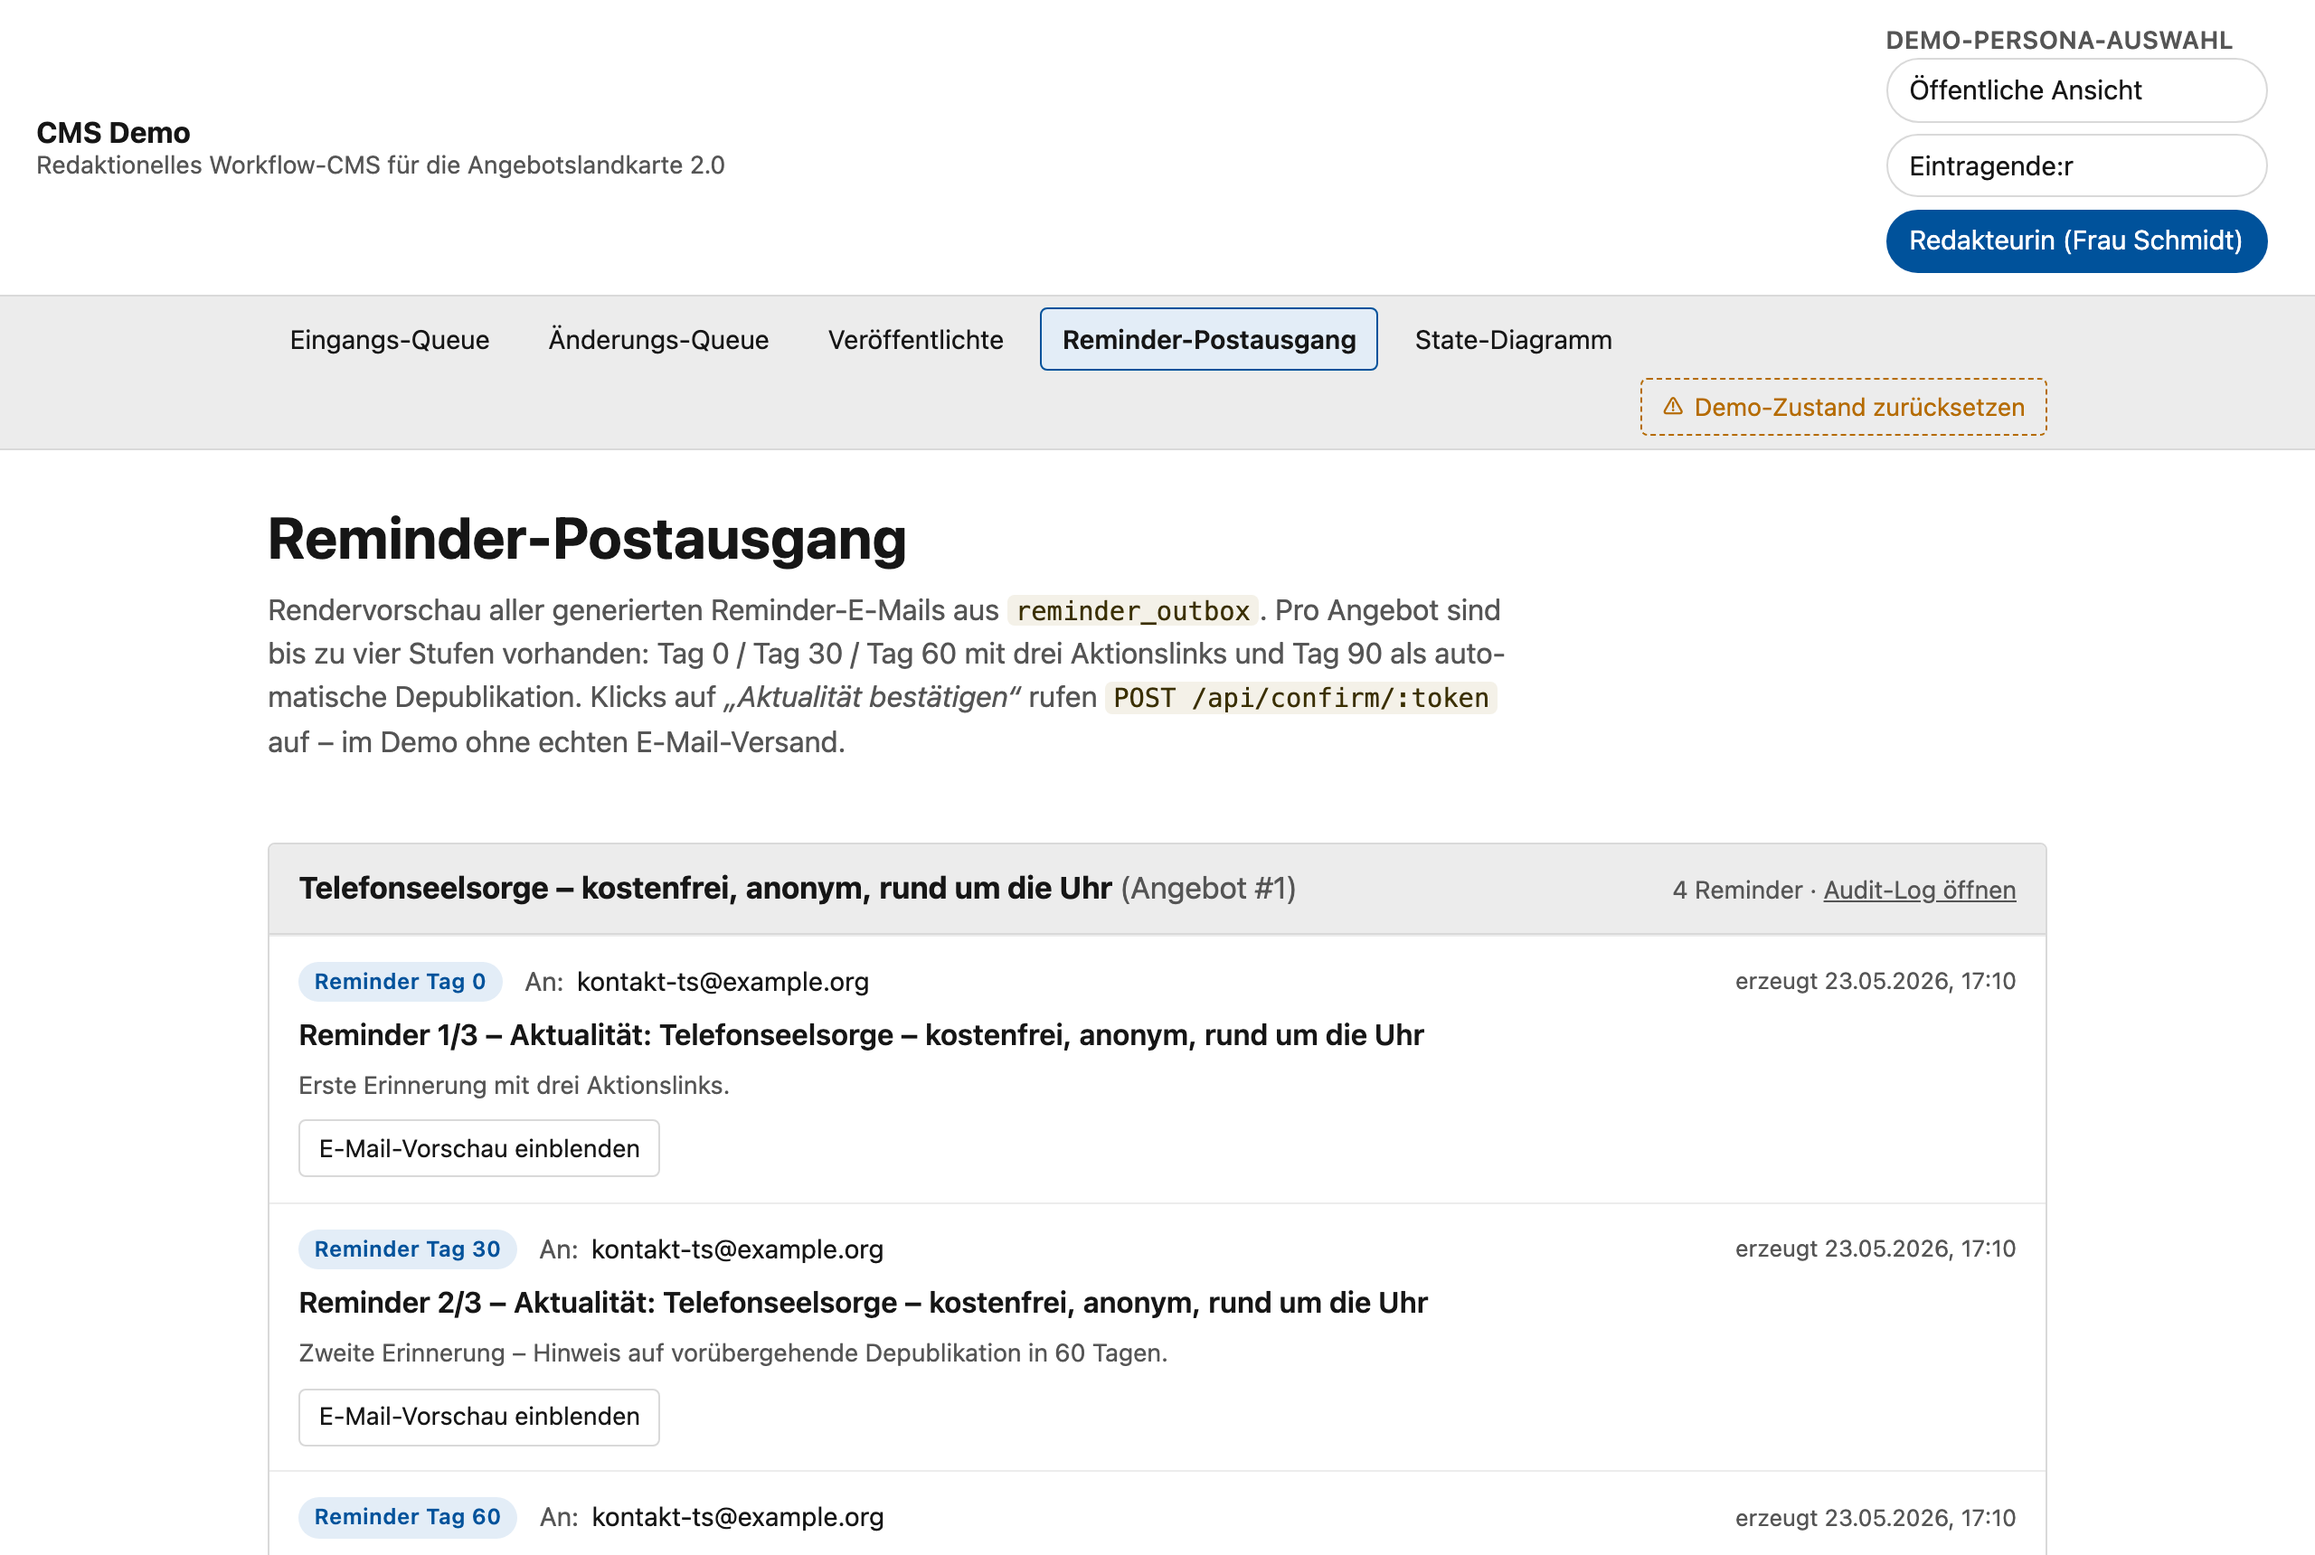
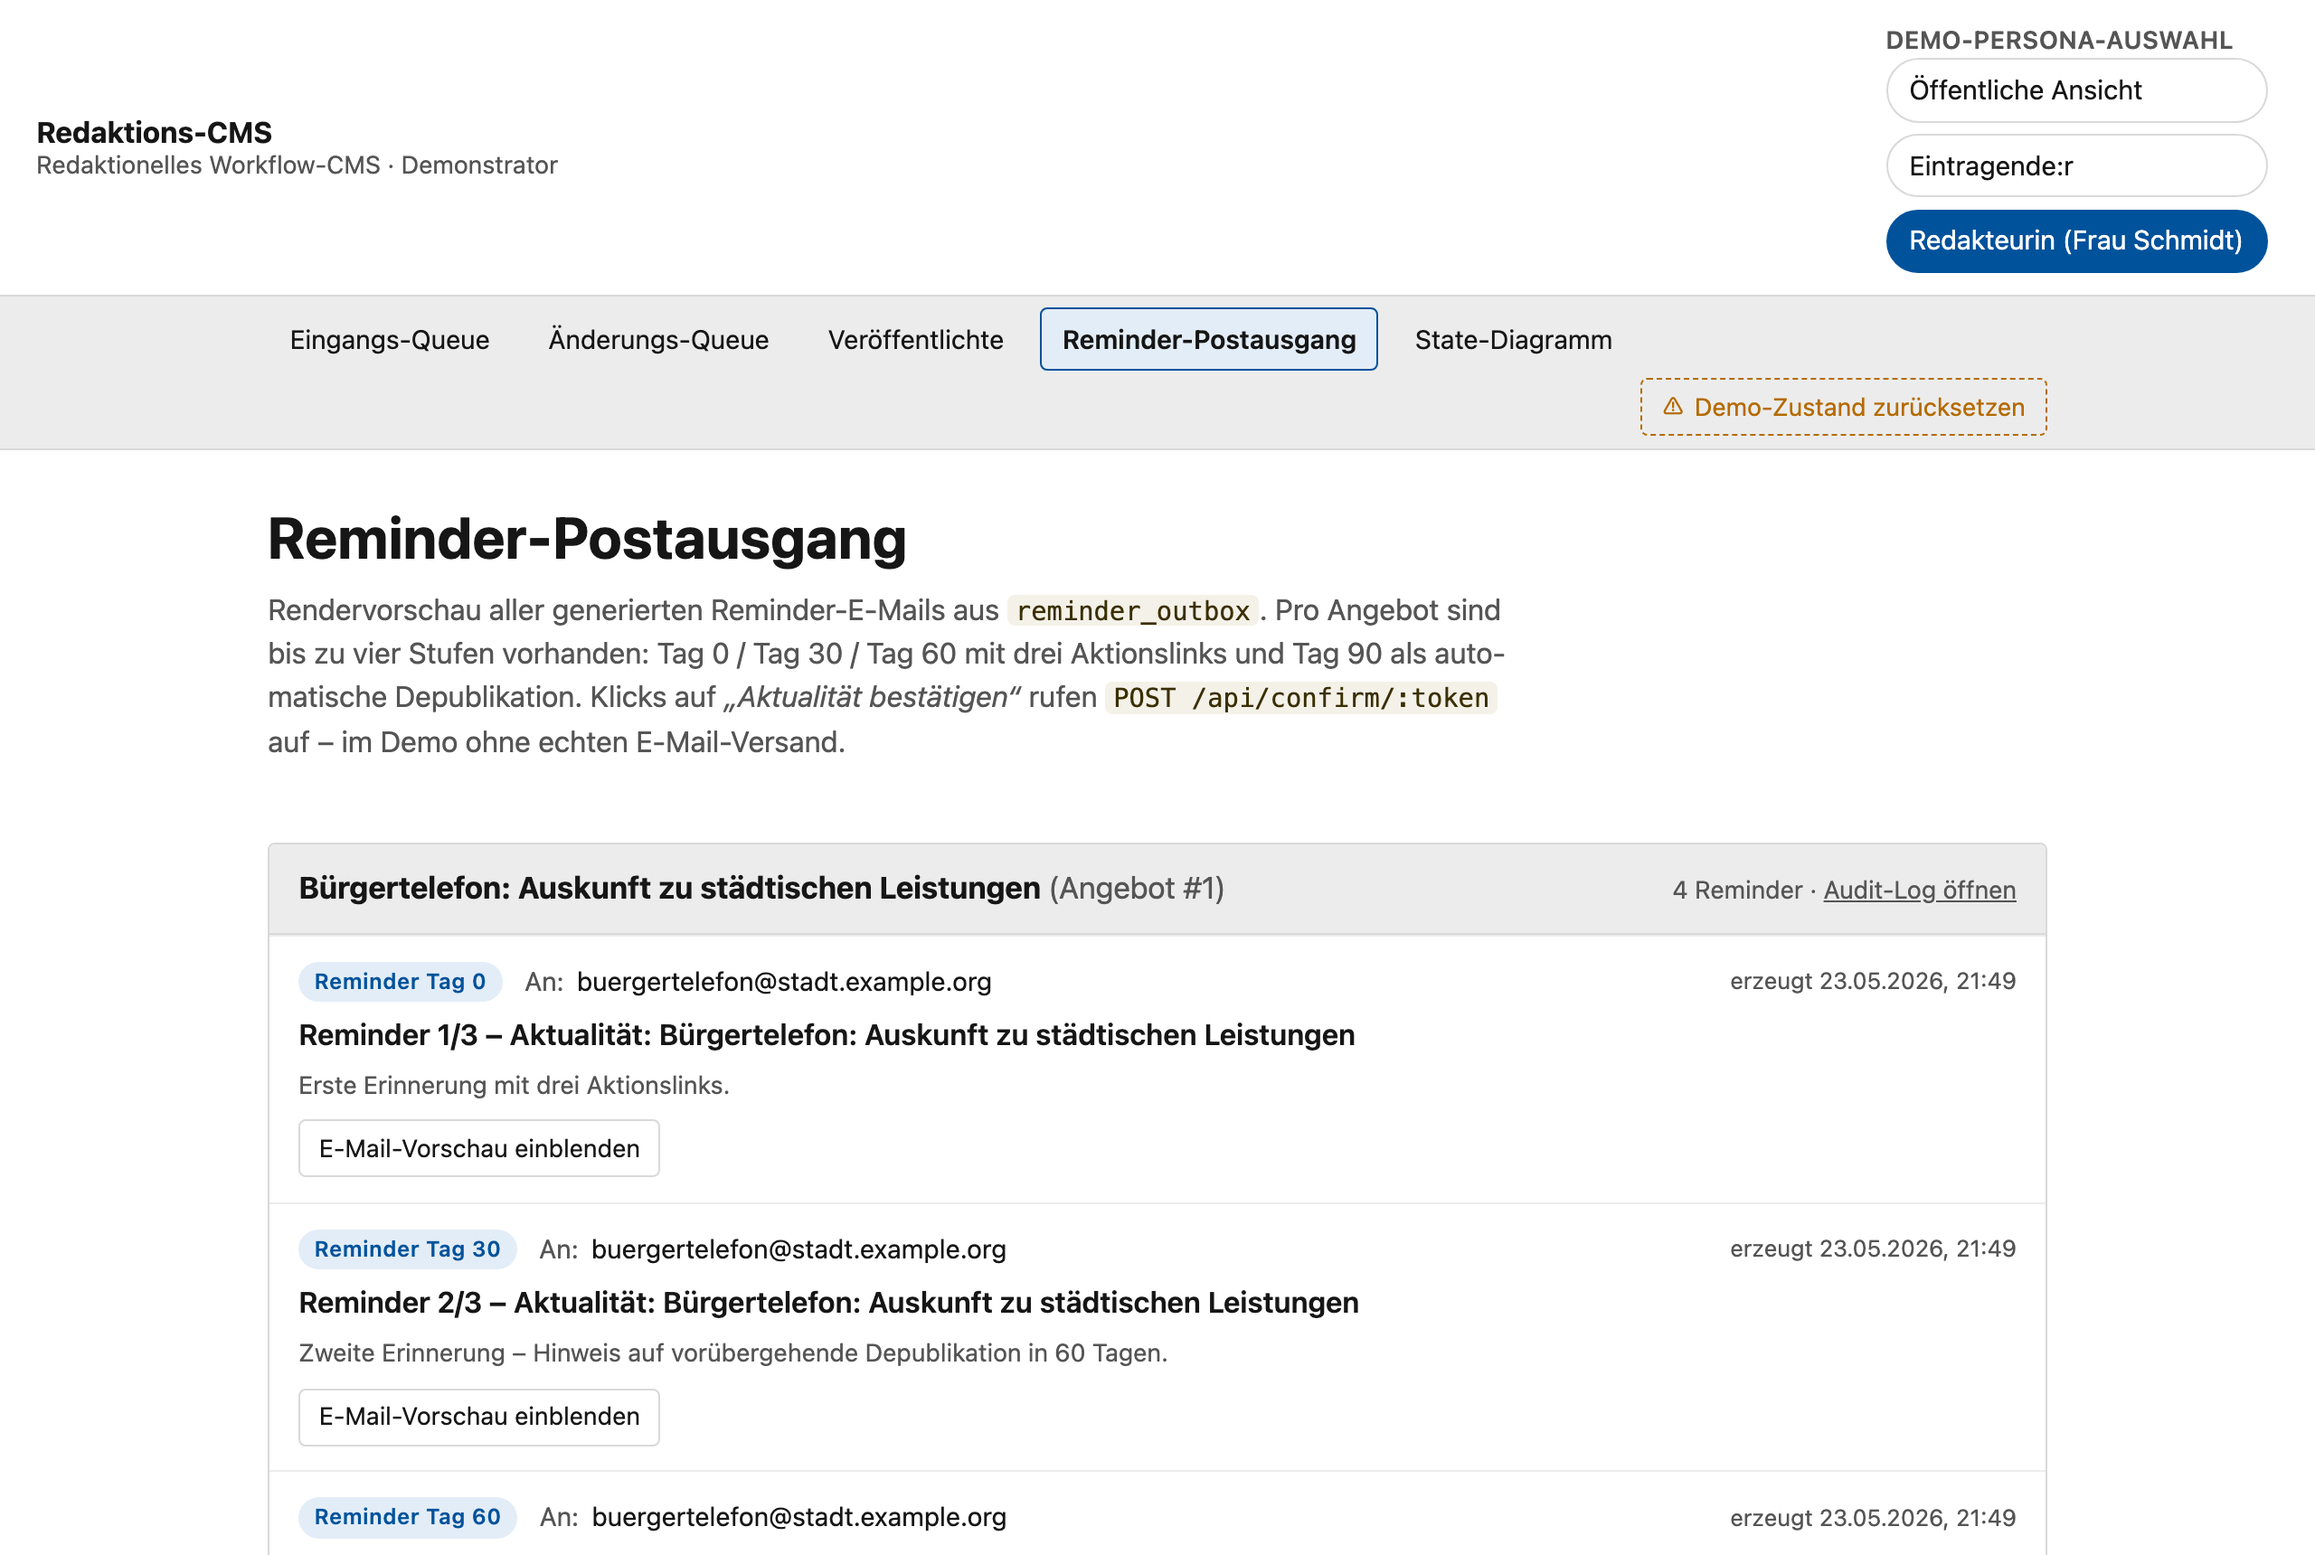
fix(B1+M1): re-skin editorial-CMS screenshots off the buyer domain
The editorial-workflow case-study screenshots leaked buyer identity that
the dist text strip-grep cannot see (text rendered inside PNGs):

- B1: the CMS header band carried "Angebotslandkarte 2.0" (a strip-list
  term) in 3 shots; the capture neutralizer stripped KNE/Kompetenznetz/
  Einsamkeit but not "Angebotslandkarte".
- M1: the seed painted a legible loneliness/bereavement/elderly-isolation
  domain (Telefonseelsorge, Trauergruppen, Senioren-treffs, Männer/Frauen
  60+, Trauerbegleitung nach Suizid).

Re-captured all six editorial-*.png against a domain-neutral re-skin of the
demo (generic municipal/community services: Bürgertelefon, Beratung,
Online-Kurse, Stadtteilzentren, Stadtbüchereien, VHS-Sprachkurs) run
locally, preserving the identical schema, status distribution, audit
timeline and reminder cascade, with the header relabelled to a neutral
"Redaktions-CMS · Demonstrator". Each PNG was visually verified clean
(no Angebotslandkarte, no loneliness content, no KNE/ISS/Kompetenznetz/
Einsamkeit, no URL bar, no logo). offer-map-*.png left untouched.

The kne-cms-demo re-skin was a temporary, uncommitted local change and the
demo repo was restored to a clean state afterwards (nothing committed,
pushed, or redeployed there — its branding is intentional for a submitted
bid). Also hardened scripts/capture-work-screenshots.mjs to strip
"Angebotslandkarte" so a future re-capture cannot reintroduce B1. Details
in BUILD-NOTES-screenshots.md.
[…]

diff --git a/BUILD-NOTES-screenshots.md b/BUILD-NOTES-screenshots.md
@@ -102,3 +102,60 @@ is wanted in the case study, it would need building in the demo first.
 *Generated by FEATURE C1. Capture script: `scripts/capture-work-screenshots.mjs`.
 No demo-repo source was modified. CMS local D1 was seeded fresh
 (`npm run db:reset`) before capture.*
+
+---
+
+## Re-skin of the editorial-CMS screenshots (2026-05-23, review B1 + M1)
+
+The independent pre-deploy review (`REVIEW-FINDINGS.md`) caught two leaks that a
+text strip-grep of `dist/` cannot see, because they are text *rendered inside the
+PNGs*:
+
+- **B1 (blocker):** the CMS header band read "Redaktionelles Workflow-CMS für die
+  **Angebotslandkarte 2.0**" in `editorial-personas.png`,
+  `editorial-intake-queue.png`, `editorial-reminders.png`. "Angebotslandkarte" is
+  a strip-list term (the buyer's product name); the capture-time DOM neutralizer
+  stripped `KNE`/`Kompetenznetz`/`Einsamkeit` but **not** "Angebotslandkarte".
+- **M1 (major):** the synthetic seed painted an unmistakable
+  bereavement / elderly-isolation domain (Telefonseelsorge, Trauergruppen,
+  Männer/Frauen 60+, Seniorentreff, Trauerbegleitung nach Suizid …). VISION
+  states the loneliness topic itself is identifying.
+
+**Fix:** all six `editorial-*.png` were re-captured against a **domain-neutral
+re-skin** of the demo, run locally. The new seed is a generic municipal /
+community-services directory (Bürgertelefon, Verbraucher-/Familien-/
+Schuldnerberatung, Online-Kurse, Stadtteilzentren, Stadtbüchereien, VHS-Sprachkurs,
+Lesekreise) across the same German geography, preserving the identical schema,
+ids, status distribution (14 veröffentlicht / 2 eingereicht / 2 änderungswunsch /
+2 entwurf), relationships, audit timeline, and reminder cascade, so every
+capability shot (persona switch, intake queue, before/after diff, audit log,
+reminder escalation + preview outbox) renders exactly as before with neutral
+content. The CMS header was relabelled to "Redaktions-CMS / Redaktionelles
+Workflow-CMS · Demonstrator".
+
+**How (and the demo-repo invariant):** the re-skin was applied as **temporary,
+uncommitted local edits** to `~/projects/kne-cms-demo` (seed.sql, the bundled
+`index.html` header + two domain-example strings, the SPA persona mirror
+`src/lib/personas.js`, the actor-email constants in `src/views/redaktion.js` /
+`functions/_lib/{writes,reminders}.js` / `functions/api/confirm/[token].js`, and
+the reminder email templates in `functions/_lib/reminders.js` which had baked-in
+buyer strings incl. the `landkarte@kompetenznetz-einsamkeit.de` mailbox and an
+"ISS e.V. Frankfurt" footer). The demo was rebuilt (`npm run build` regenerates
+`functions/_lib/seed-data.js`, which the `/api/demo/reset` button the capture
+script clicks re-runs) + `npm run db:reset` + `wrangler pages dev`, then captured.
+**The kne-cms-demo repo was restored to a fully clean state afterwards
+(`git checkout`); nothing there was committed, pushed, or redeployed** — its
+KNE branding + loneliness seed are intentional (the live demo is referenced in a
+submitted bid). Only this repo's `public/work/editorial-*.png` changed.
+
+**Each new PNG was visually verified by reading the image**: zero
+"Angebotslandkarte", zero loneliness/bereavement/Senioren-isolation content, zero
+`KNE`/`ISS`/`Kompetenznetz`/`Einsamkeit`, zero URL bar, zero logo. The
+`offer-map-*.png` were already clean and were left untouched.
+
+**Capture-script hardening (committed):** `scripts/capture-work-screenshots.mjs`
+now also strips "Angebotslandkarte" (→ "Datenbestand", and "Angebotslandkarte 2.0"
+→ "Demonstrator") in `CMS_NEUTRALIZE` and flags it in `CMS_STRIPCHECK`, so a future
+re-capture cannot reintroduce the B1 header leak even without the source relabel.
+The neutralizer deliberately does **not** touch the site's approved neutral term
+"Angebotskarte".
